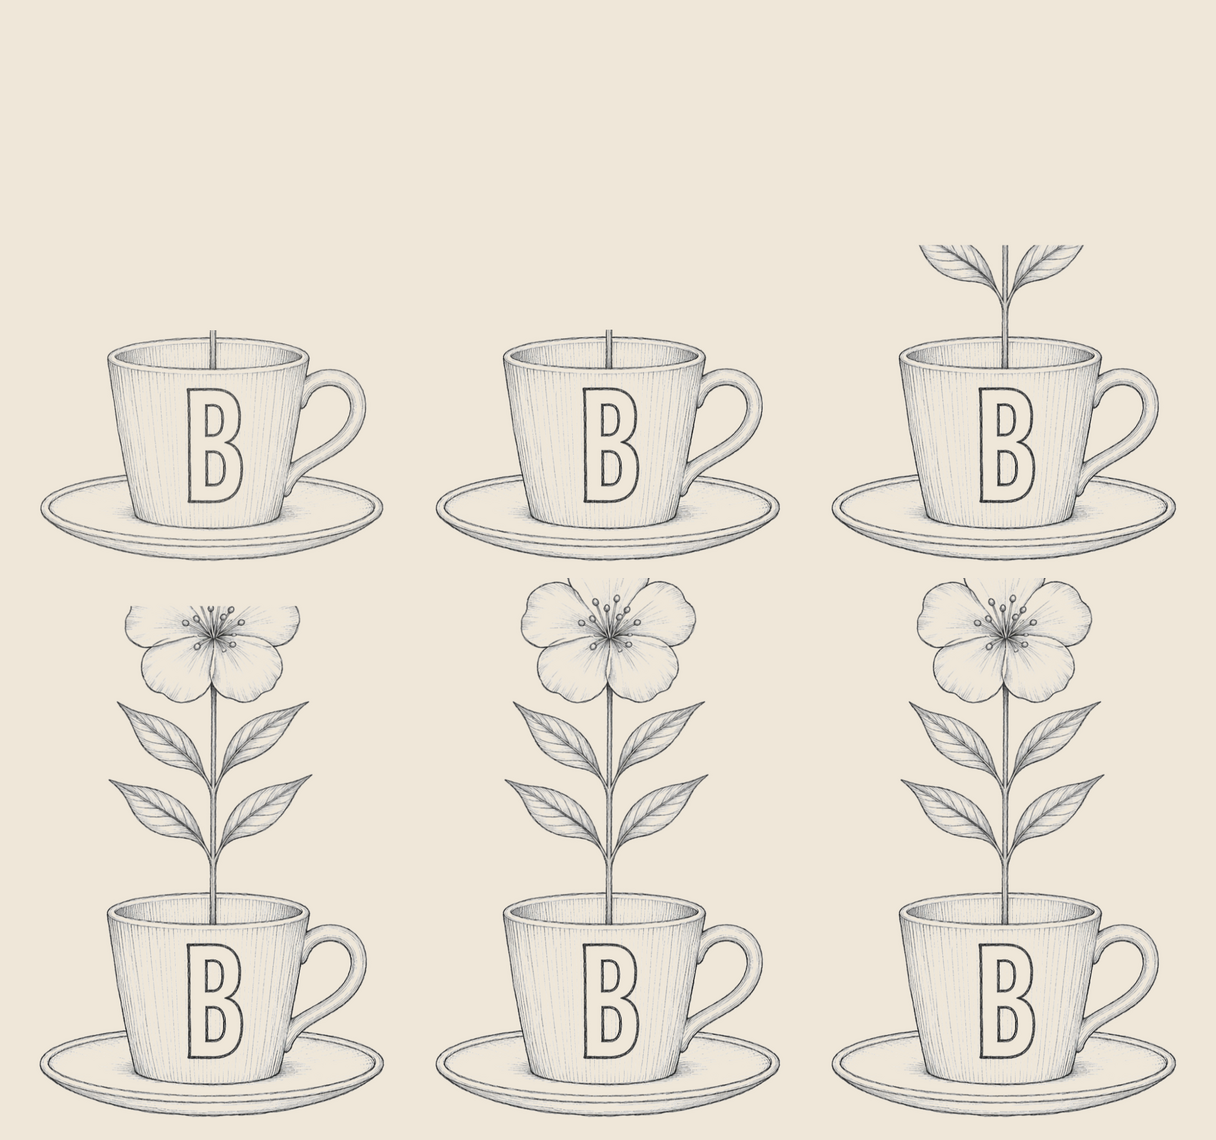
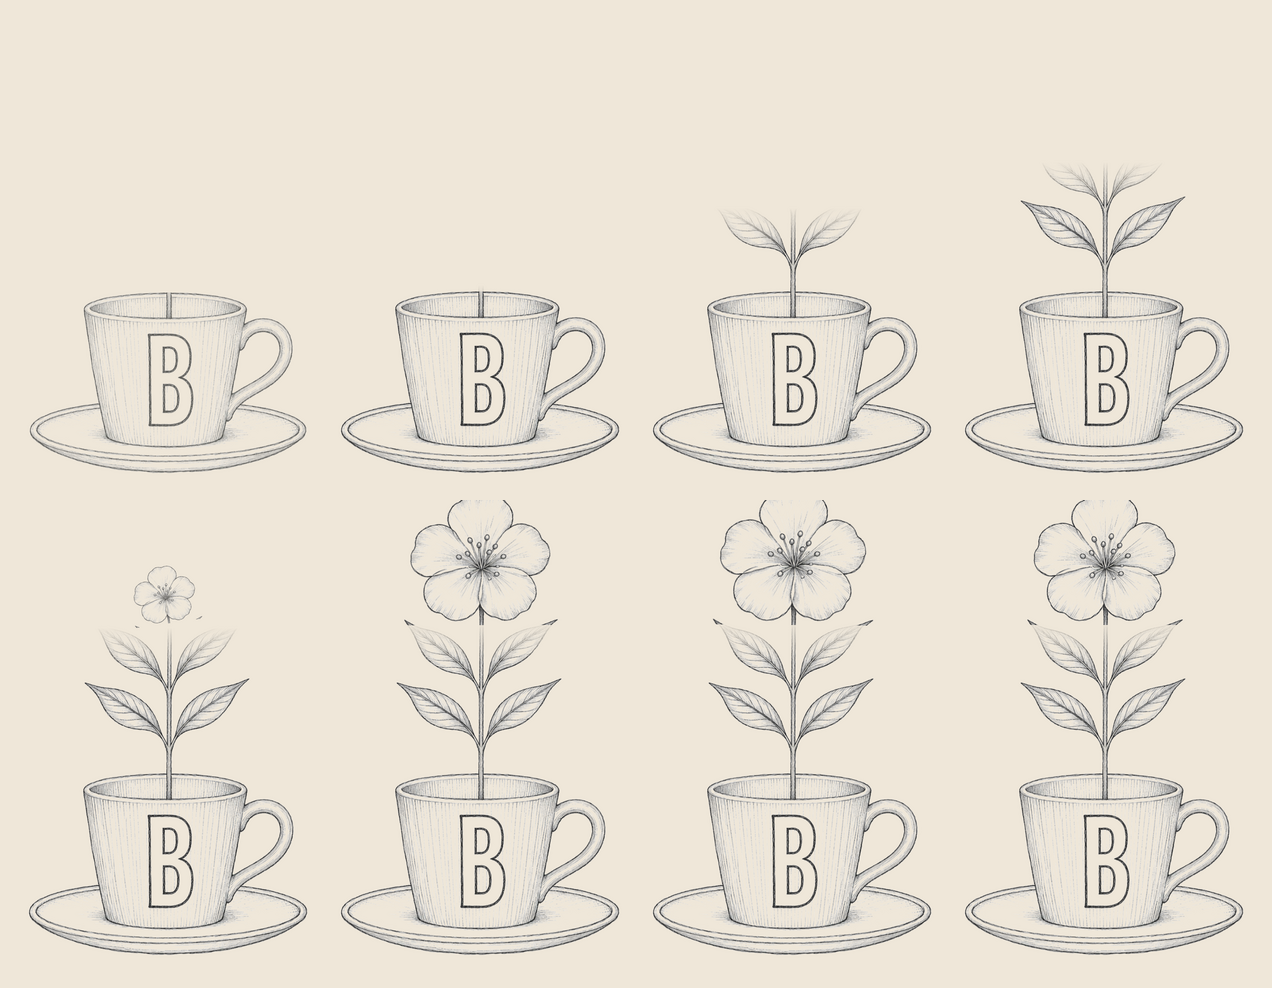
Hacer que la planta crezca de forma orgánica
El clip-path dejaba ver una línea recta subiendo. Ahora el tallo se
descubre con una máscara de degradado, de borde difuminado, movida con
una custom property registrada para poder interpolarla. Su recorrido se
ajusta a la banda del tallo, que antes se agotaba al 64% de la duración.

La flor se separa en su propia capa y se abre escalando desde donde
acaban las hojas, con algo de rebote, en vez de aparecer recortada.

Las animaciones ya no arrancan con la hoja de estilos sino cuando el
dibujo está decodificado: antes buena parte del crecimiento ocurría
mientras la imagen aún no estaba pintada.

Todo algo más rápido: de 3,5 s a 2,4 s.

Claude-Session: https://claude.ai/code/session_017AvAiiBUR3TEeJEqdmiusp

Changed region(s): [[0.0, 0.1822, 1.0, 1.0]]

diff --git a/assets/css/style.css b/assets/css/style.css
@@ -378,28 +378,53 @@ h2 + p,h2 + .sub,h2 + .addr,h2 + .lead{margin-top:1.4rem}
 .intro__box{display:flex;flex-direction:column;align-items:center;
   gap:clamp(14px,2.4vh,26px);width:min(78vw,min(62vh,410px))}
 
+/* El dibujo se parte en tres: taza, tallo con hojas, y flor.
+   Los cortes salen de medir la tinta del propio dibujo:
+   flor 0-28,6%  ·  tallo y hojas 28,6-60,7%  ·  taza 60,7-100%  */
+@property --brote{syntax:'<percentage>';inherits:false;initial-value:30%}
+
 .dib{position:relative;width:100%;aspect-ratio:629/1043}
+/* en pausa hasta que la imagen está lista, para no perder el crecimiento */
+.intro .dib img,.intro .intro__word{animation-play-state:paused}
+.intro.ready .dib img,.intro.ready .intro__word{animation-play-state:running}
 .dib img{position:absolute;inset:0;width:100%;height:100%;object-fit:contain}
-/* la taza y el plato: la parte de abajo del dibujo */
-.dib__taza{clip-path:inset(59.5% 0 0 0);opacity:0;
-  animation:tazaIn .75s var(--e) .15s forwards}
-/* el tallo, las hojas y la flor: se revelan creciendo hacia arriba */
-.dib__plant{clip-path:inset(59.5% 0 40.5% 0);
-  animation:crecer 1.35s cubic-bezier(.3,.7,.3,1) .78s forwards}
+
+.dib__taza{clip-path:inset(60.7% 0 0 0);opacity:0;
+  animation:tazaIn .4s var(--e) .05s forwards}
+
+/* el tallo no se corta: asoma por un degradado que sube */
+.dib__tallo{
+  clip-path:inset(28.6% 0 39.3% 0);
+  --brote:30%;
+  -webkit-mask-image:linear-gradient(to top,#000 var(--brote),transparent calc(var(--brote) + 9%));
+          mask-image:linear-gradient(to top,#000 var(--brote),transparent calc(var(--brote) + 9%));
+  animation:brotar .76s cubic-bezier(.4,.5,.25,1) .32s forwards;
+}
+
+/* la flor se abre desde donde acaba el tallo */
+.dib__flor{
+  clip-path:inset(0 0 71.4% 0);
+  transform-origin:50.2% 28%;
+  transform:scale(.18) rotate(-12deg);opacity:0;
+  animation:florecer .58s cubic-bezier(.2,1.35,.38,1) .82s forwards;
+}
+
 @keyframes tazaIn{
-  from{opacity:0;transform:translateY(10px) scale(.97)}
+  from{opacity:0;transform:translateY(9px) scale(.975)}
   to{opacity:1;transform:none}
 }
-@keyframes crecer{
-  from{clip-path:inset(59.5% 0 40.5% 0)}
-  to{clip-path:inset(0 0 40.5% 0)}
+@keyframes brotar{to{--brote:63%}}
+@keyframes florecer{
+  0%{transform:scale(.18) rotate(-12deg);opacity:0}
+  26%{opacity:1}
+  100%{transform:scale(1) rotate(0deg);opacity:1}
 }
 
 .intro__word{
   margin:0;font-family:'Anton',Impact,sans-serif;font-weight:400;
   font-size:clamp(1.05rem,2.5vw,1.6rem);letter-spacing:.045em;
   text-transform:uppercase;color:var(--ink);line-height:1;
-  opacity:0;animation:palabra .55s var(--e) 2.1s forwards;
+  opacity:0;animation:palabra .38s var(--e) 1.34s forwards;
 }
 @keyframes palabra{from{opacity:0;transform:translateY(7px)}to{opacity:1;transform:none}}
 
@@ -417,6 +442,7 @@ h2 + p,h2 + .sub,h2 + .addr,h2 + .lead{margin-top:1.4rem}
     transition-duration:.01ms !important;scroll-behavior:auto !important}
   .rv{opacity:1;transform:none}
   .dib__taza{opacity:1}
-  .dib__plant{clip-path:inset(0 0 40.5% 0)}
+  .dib__tallo{-webkit-mask-image:none;mask-image:none}
+  .dib__flor{transform:none;opacity:1}
   .intro__word{opacity:1}
 }

diff --git a/assets/js/main.js b/assets/js/main.js
@@ -6,7 +6,7 @@
   var reduce = matchMedia('(prefers-reduced-motion: reduce)').matches;
 
   /* ───────── INTRO (sólo el logo) ───────── */
-  var INTRO_MS = 3500;
+  var INTRO_MS = 2400;
   var KEY = 'botanico-intro-v2';
   var introNode = qs('#intro');
   var introHTML = introNode ? introNode.outerHTML : '';
@@ -41,7 +41,24 @@
     node.addEventListener('click', function (e) {
       if (e.target.id !== 'skip') skip();
     });
-    timers.push(setTimeout(skip, INTRO_MS));
+
+    /* el dibujo pesa, así que no se arranca hasta tenerlo: si no, el
+       crecimiento ocurre mientras la imagen todavía no está pintada */
+    var arrancar = function () {
+      if (node.classList.contains('ready')) return;
+      node.classList.add('ready');
+      timers.push(setTimeout(skip, INTRO_MS));
+    };
+    var img = qs('.dib__taza', node);
+    if (img && img.decode) {
+      img.decode().then(arrancar, arrancar);
+    } else if (img && !img.complete) {
+      img.addEventListener('load', arrancar);
+      img.addEventListener('error', arrancar);
+    } else {
+      arrancar();
+    }
+    timers.push(setTimeout(arrancar, 2500));   // por si la imagen nunca llega
     try { sessionStorage.setItem(KEY, '1'); } catch (e) {}
   }
 

diff --git a/index.html b/index.html
@@ -23,7 +23,8 @@
   <div class="intro__box">
     <div class="dib">
       <img class="dib__taza"  src="assets/img/logo-dibujo.webp" alt="" width="629" height="1043">
-      <img class="dib__plant" src="assets/img/logo-dibujo.webp" alt="" aria-hidden="true">
+      <img class="dib__tallo" src="assets/img/logo-dibujo.webp" alt="" aria-hidden="true">
+      <img class="dib__flor"  src="assets/img/logo-dibujo.webp" alt="" aria-hidden="true">
     </div>
     <p class="intro__word">Cafe Botanico</p>
   </div>

diff --git a/README.md b/README.md
@@ -29,25 +29,43 @@ Sacada de su Instagram, no de una plantilla:
 
 ## La intro
 
-Sólo el logo, ~3,5 s. Se reproduce **una vez por sesión** (`sessionStorage`),
+Sólo el logo, ~2,4 s. Se reproduce **una vez por sesión** (`sessionStorage`),
 se salta con el botón o un clic, se desactiva sola con `prefers-reduced-motion`
 y se puede repetir desde el pie.
 
-El dibujo es una sola imagen, así que la animación se hace con dos copias
-recortadas por `clip-path`: la de abajo (taza y plato) entra con un fundido, y
-la de arriba se revela creciendo hacia arriba, de modo que el tallo sale de la
-taza, se van abriendo las hojas y al final aparece la flor.
+El dibujo es una sola imagen, así que se parte en tres capas con `clip-path`.
+Los cortes salen de medir la tinta del propio dibujo por filas:
+
+```
+flor            0 – 28,6 %
+tallo y hojas  28,6 – 60,7 %
+taza y plato   60,7 – 100 %
+```
+
+- La **taza** entra con un fundido corto.
+- El **tallo** no se corta con una línea recta: se descubre con una máscara de
+  degradado que sube, así que el borde va difuminado y parece que crece en vez
+  de aparecer por trozos. El degradado se mueve con una custom property
+  registrada (`@property --brote`), que es lo que permite interpolarla.
+  Su recorrido está ajustado justo a la banda del tallo para que el crecimiento
+  ocupe toda la duración.
+- La **flor** se abre aparte, escalando desde el punto donde acaban las hojas,
+  con un poco de rebote.
 
 | t | qué pasa |
 |---|---|
-| 0,15 s | entra la taza con el plato |
-| 0,78 s | el tallo empieza a salir de la taza |
-| ~1,4 s | se abren el primer par de hojas |
-| ~1,8 s | el segundo par |
-| ~2,1 s | se abre la flor |
-| 2,1 s | aparece **CAFE BOTANICO** en Anton |
+| 0,05 s | entra la taza con el plato |
+| 0,32 s | asoma el tallo por el borde de la taza |
+| ~0,6 s | se abre el primer par de hojas |
+| ~0,9 s | el segundo par |
+| 0,82 s | empieza a abrirse la flor |
+| 1,34 s | entra **CAFE BOTANICO** en Anton |
 
 ![La planta saliendo de la taza](storyboard-intro.png)
+
+Las animaciones arrancan en pausa y no se sueltan hasta que el dibujo está
+decodificado (`img.decode()`): si no, el crecimiento ocurre mientras la imagen
+todavía no se ha pintado y te pierdes media secuencia.
 
 ## Estructura
 
